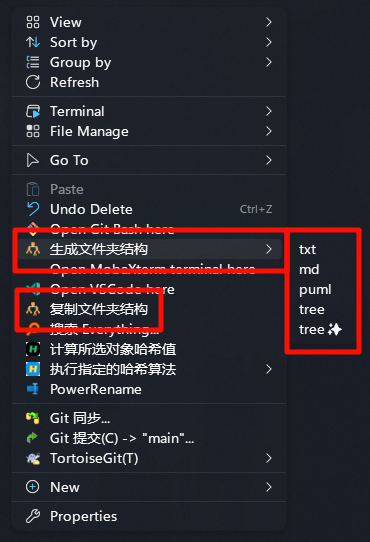
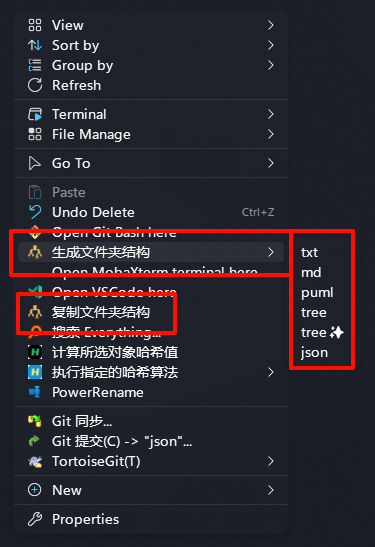
新加生成文件夹结构-json
Inspired By [tree_maker](https://github.com/flowese/tree_maker)

diff --git a/binary/tree2json.py b/binary/tree2json.py
@@ -1,0 +1,66 @@
+import os
+import json
+import base64
+import mimetypes
+import zlib
+import pyperclip
+
+def read_file_content(file_path):
+    mime_type, _ = mimetypes.guess_type(file_path)
+
+    if mime_type and mime_type.startswith("text"):
+        with open(file_path, "r", errors='ignore') as f:
+            content = f.read()
+    else:
+        with open(file_path, "rb") as f:
+            content = base64.b64encode(f.read()).decode("utf-8")
+    return content
+
+def compress_content(content):
+    return base64.b64encode(zlib.compress(content.encode("utf-8"))).decode("utf-8")
+
+def decompress_content(content):
+    return zlib.decompress(base64.b64decode(content.encode("utf-8"))).decode("utf-8")
+
+def generate_tree(path):
+    if not os.path.exists(path):
+        return None
+
+    tree = {"type": "directory", "name": os.path.basename(path), "children": []}
+
+    for element in sorted(os.listdir(path)):
+        element_path = os.path.join(path, element)
+
+        if os.path.isdir(element_path):
+            tree["children"].append(generate_tree(element_path))
+        else:
+            tree["children"].append({
+                "type": "file",
+                "name": element,
+                "content": compress_content(read_file_content(element_path))
+            })
+
+    return tree
+
+def save_tree_json(tree, output_file):
+    with open(output_file, "w", encoding='utf-8') as f:
+        json.dump(tree, f, indent=2)
+
+def copy_txt_to_clipboard(file_path):
+    try:
+        with open(file_path, 'r', encoding='utf-8') as file:
+            content = file.read()
+            pyperclip.copy(content)
+            print("文件内容已复制到剪贴板")
+    except FileNotFoundError:
+        print(f"找不到文件：{file_path}")
+    except Exception as e:
+        print(f"发生错误：{e}")
+
+if __name__ == "__main__":
+    folder_path = os.getcwd()
+    output_file = os.path.split(folder_path)[-1] + ".json"
+    tree = generate_tree(folder_path)
+    print(f"Json文件 {output_file} 已生成。")
+    save_tree_json(tree, output_file)
+    copy_txt_to_clipboard(output_file)

diff --git a/README.md b/README.md
@@ -1,8 +1,8 @@
 # Tree_This_Folder
 
-## 为你的右键添加 复制、生成文件夹结构 功能。便于 ChatGPT / 你的同事 理解你的项目结构。使用 bat 脚本 和 Python 实现
+## 为你的右键添加 复制、生成文件夹结构 功能。便于 ChatGPT / 你的同事 理解你的项目结构。使用 bat 脚本 和 Python 实现，目前已支持 `生成 txt、markdown、puml、Windows默认tree、Emoji增强tree、json` 六种生成格式。
 
-## Add copy and generate folder structure for your right-click. Make it easy for ChatGPT/your colleagues to understand your project structure. Use bat script and Python implementation.
+## Add copy and generate folder structure for your right-click. Make it easy for ChatGPT/your colleagues to understand your project structure. Use bat script and Python implementation. Currently it supports six generation formats: TXT, Markdown, puml, Windows default tree, Emoji enhanced tree, and JSON.
 
 ---
 
@@ -50,6 +50,8 @@
 
 2. 输出效果
 
+注意，输出 json 时非常慢，请耐心等待。运行时无界面，但任务管理器是能看到没卡死的，不要多开。
+
 ![输出效果](assets/输出效果.gif)
 
 3. txt 导入 ChatGPT 效果：
@@ -79,6 +81,13 @@
 9. 输出 tree✨ 效果 （Powered By [seedir](https://github.com/earnestt1234/seedir) ）
 
 ![输出tree✨效果](assets/输出tree✨效果.png)
+
+10. 输出 json 效果 （Inspired By [tree_maker](https://github.com/flowese/tree_maker)）
+
+## ![输出json效果](assets/输出json效果.png)
+
+11. 注意，输出 json 时非常慢，请耐心等待。运行时无界面，但任务管理器是能看到没卡死的，不要多开。
+    ![输出json非常慢请耐心等待](assets/输出json非常慢请耐心等待.gif)
 
 ---
 
